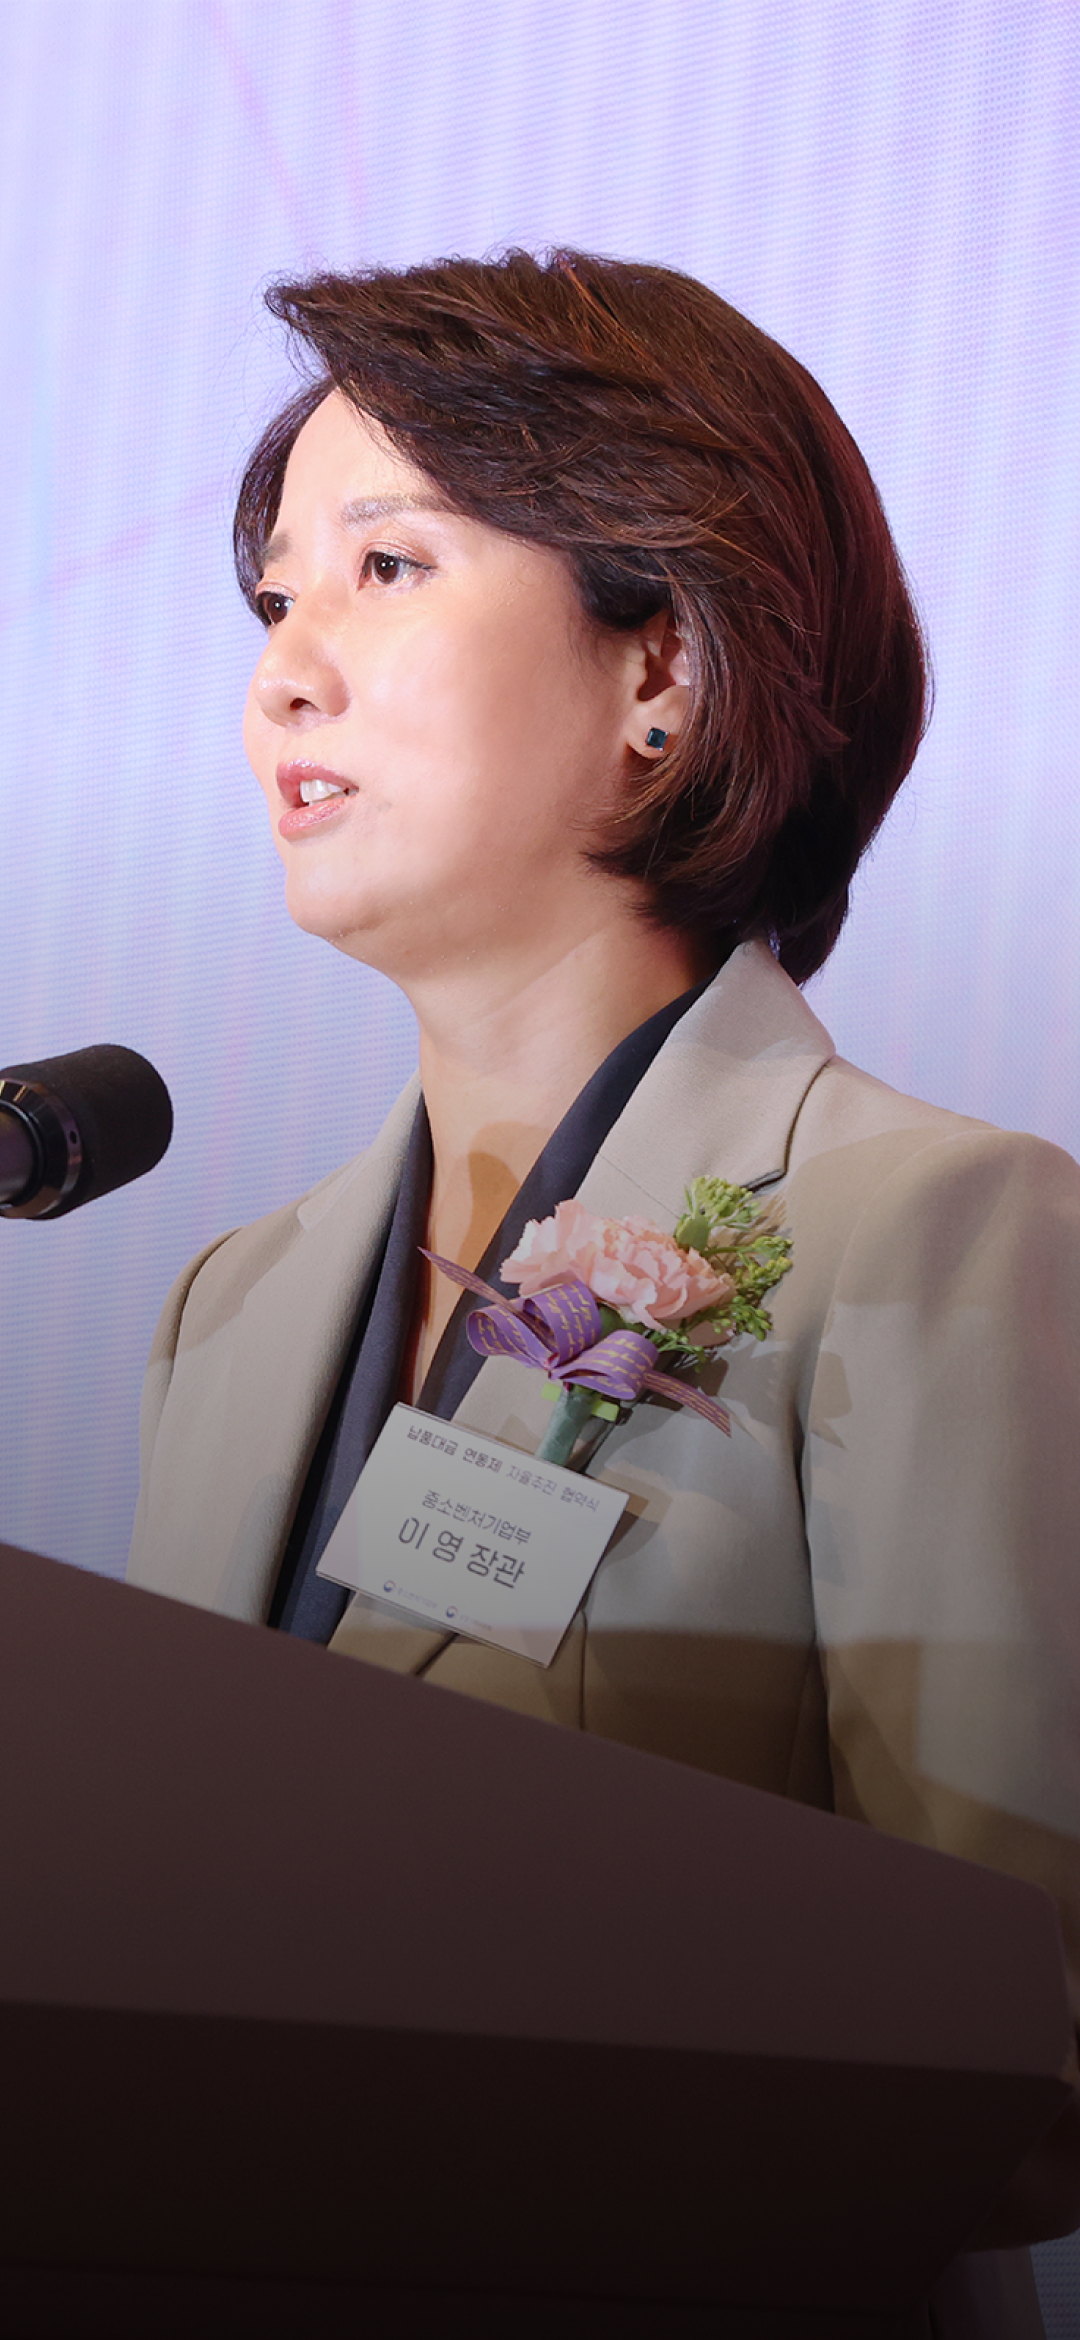
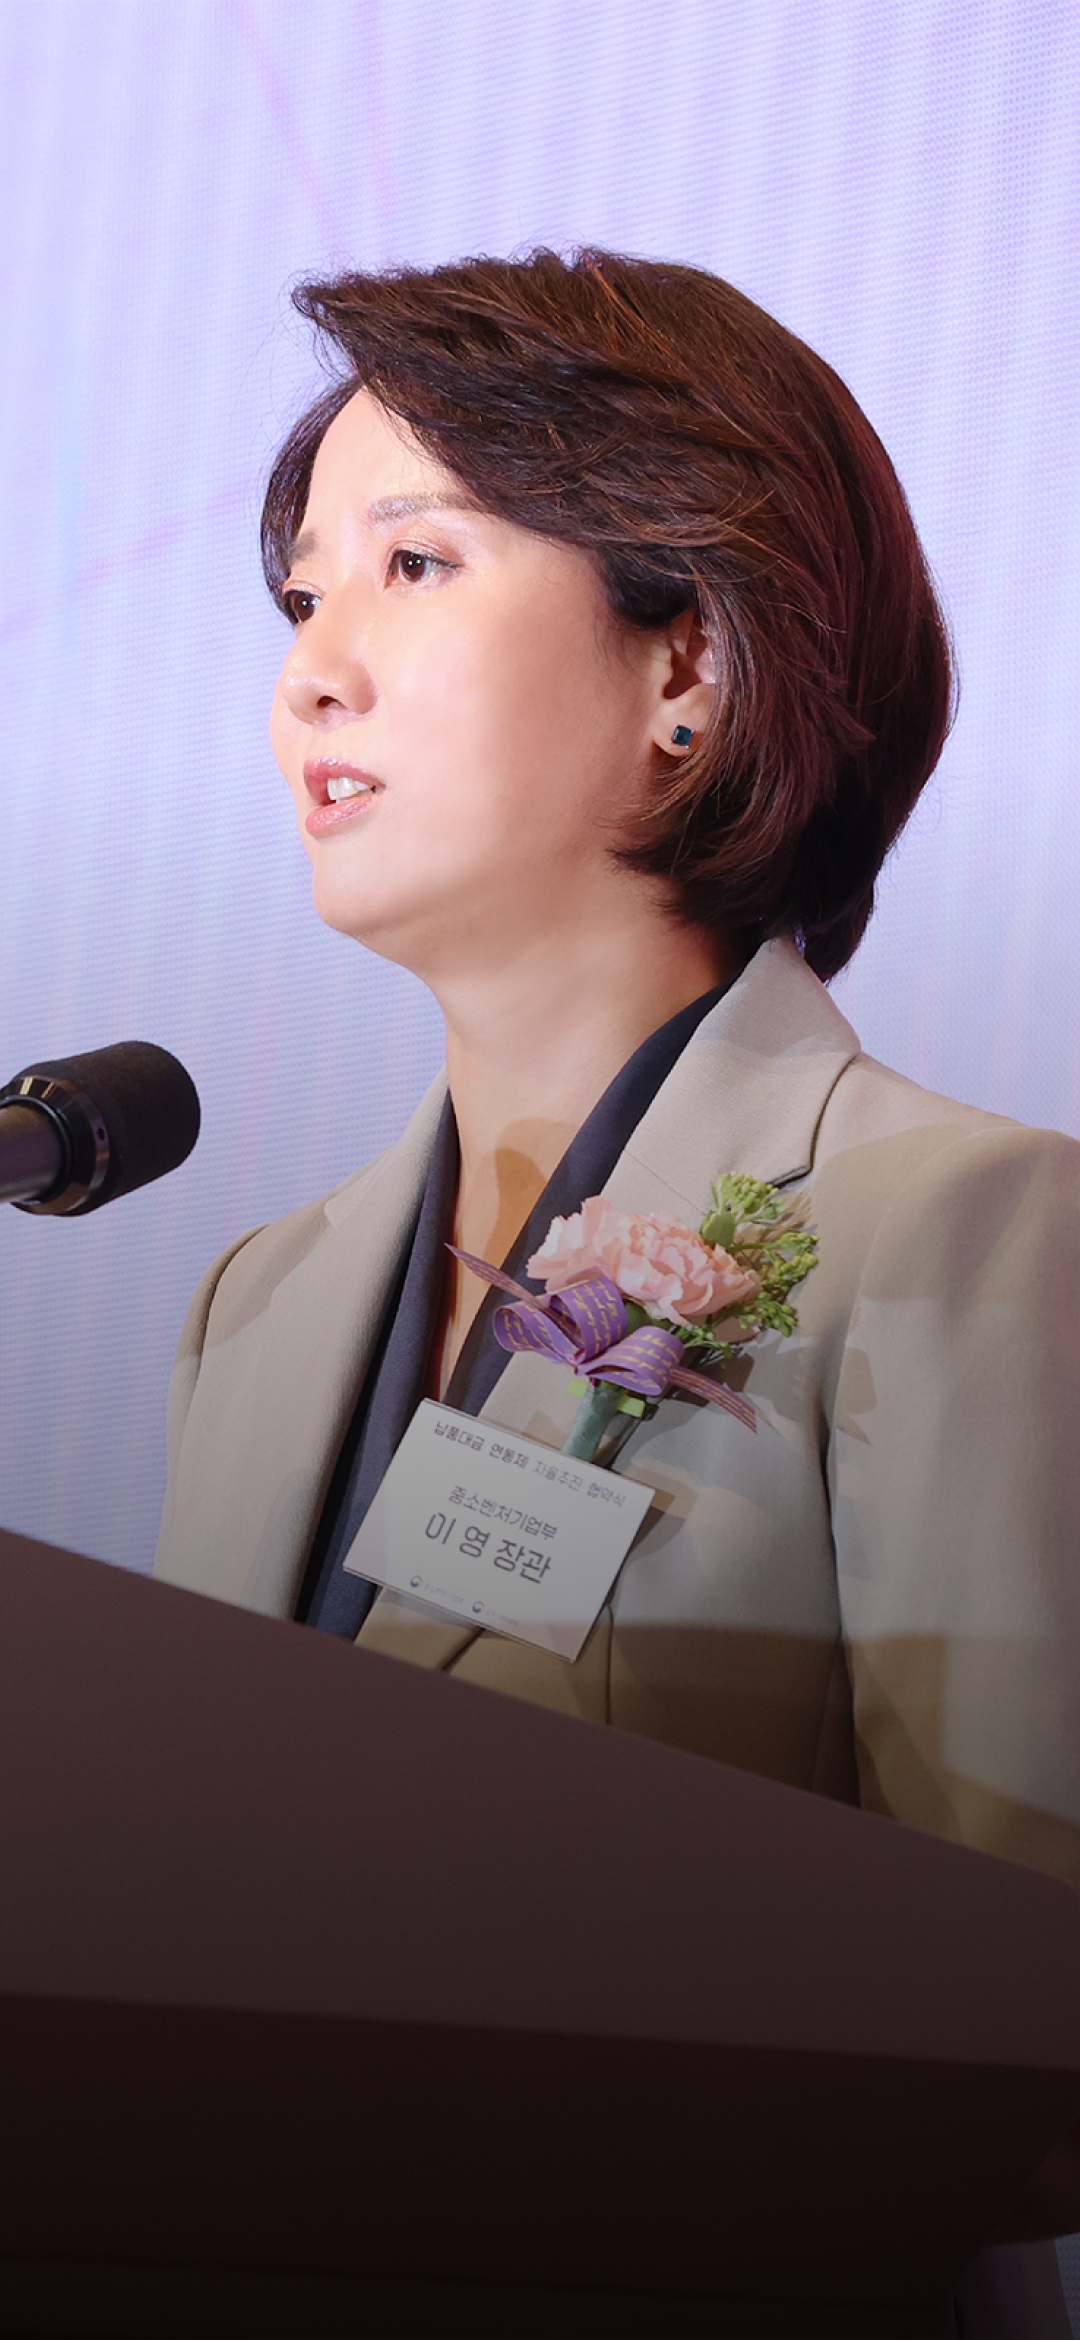
v.23.03.02 -intro 이미지 변경

diff --git a/src/main/webapp/css/front/common.css b/src/main/webapp/css/front/common.css
@@ -790,7 +790,7 @@
     background: url("../../images/intro/intro-banner1.png");
 }
 #intro .intro2{
-    background: url("../../images/intro/intro2.png");
+    background: url("../../images/intro/intro2.jpg");
 }
 #intro .intro3{
     background: url("../../images/intro/intro3.png");
